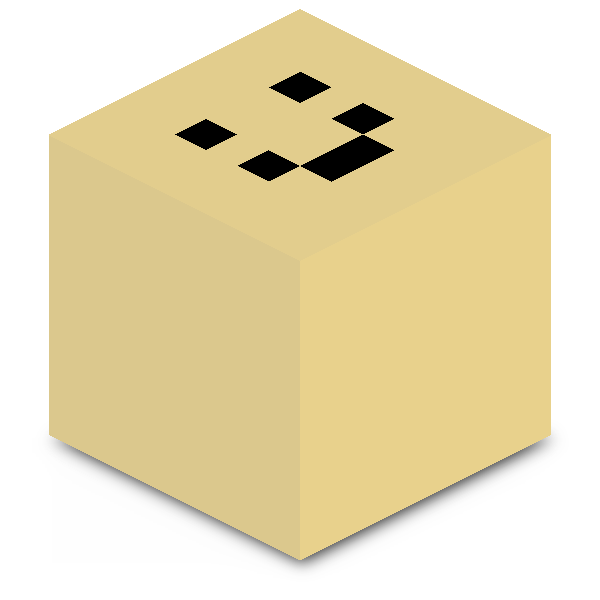
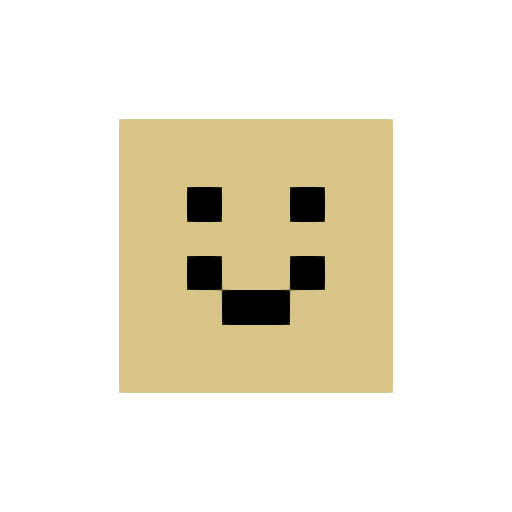
Update

diff --git a/bot.js b/bot.js
@@ -207,7 +207,7 @@ const PLAYER_HEAD_EMOJIS = new Map([
   ['lontony', '<:Lontony:1519314830899679303>'],
   ['llednev', '<:lledneV:1519314829586862152>'],
   ['karatecheese', '<:KarateCheese:1519314825170124830>'],
-  ['john200410', '<:John200410:1520293804001857716>'],
+  ['john200410', '<:John200410:1520294986137075833>'],
   ['kittr', '<:kittr:1519314827019944046>'],
   ['liketinos2341', '<:liketinos2341:1519314828001542356>'],
   ['itzrubyy', '<:ItzRubyy:1519314823790461000>'],